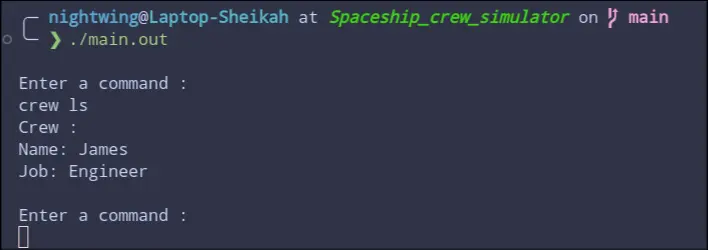
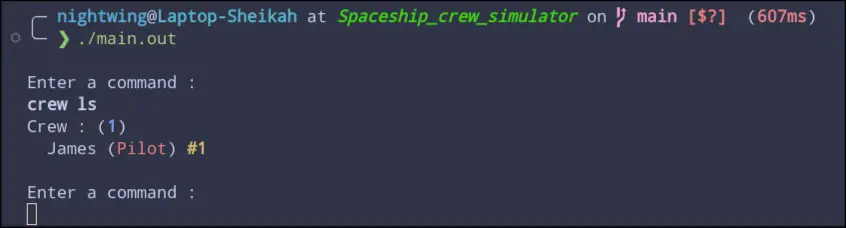
portfolio: updated spaceshipe crew page

Changed region(s): [[0.0, 0.0307, 0.9633, 0.2149], [0.0, 0.307, 0.2486, 0.7368], [0.0, 0.7982, 0.9944, 1.0]]

diff --git a/src/app/features/portfolio/projects/spaceship-crew/spaceship-crew.component.html b/src/app/features/portfolio/projects/spaceship-crew/spaceship-crew.component.html
@@ -41,16 +41,28 @@
     </p>
 
     <p>
-        Il possède actuellement 2 commandes (même s'il se passe beaucoup plus en arrière plan pour initialiser) :
+        Il possède actuellement les commandes suivantes (légèrement inspiré du <a class="pf-link" href="https://fr.wikipedia.org/wiki/Shell_Unix" target="_blank">Shell UNIX</a> pour la syntaxe) :
     </p>
 
     <ul>
         <li><b>crew ls</b> : Liste les membres d'équipage (avec leur nom et leur rôle)</li>
+        <li><b>crew add</b> : Ajoute un membre d'équipage</li>
+        <li><b>crew edit</b> : Met a jout les informations d'un membre d'équipage</li>
+        <li><b>crew rm</b> : Supprime un membre d'équipage</li>
+    </ul>
+    <ul>
         <li><b>room ls</b> : Liste les pièces constituant le vaisseau (avec leur nom, leur type, et leurs pièces adjacentes)</li>
+        <li><b>room add</b> : Ajoute une pièce du vaisseau</li>
+        <li><b>room edit</b> : Met a jout les informations d'une pièce du vaisseau</li>
+        <li><b>room rm</b> : Supprime une pièce du vaisseau</li>
+        <li><b>room link</b> : Rends adjacentes deux pièces du vaisseau</li>
+        <li><b>room unlink</b> : Rends non-adjacentes deux pièces du vaisseau</li>
     </ul>
 
-    <img class="pf-image" ngSrc="assets/images/crew-ls.webp" width="708" height="250" alt="Crew Ls Command" priority>
-    <img class="pf-image" ngSrc="assets/images/room-ls.webp" width="856" height="493" alt="Room Ls Command" priority>
+    <h3>Quelques exemples</h3>
+    <img class="pf-image" ngSrc="assets/images/crew-ls.webp" width="856" height="493" alt="Crew Ls Command" priority>
+    <img class="pf-image" ngSrc="assets/images/room-ls.webp" width="932" height="493" alt="Room Ls Command" priority>
+    <img class="pf-image" ngSrc="assets/images/room-add.webp" width="753" height="399" alt="Room Add Command" priority>
 
 <hr>
 
@@ -62,5 +74,5 @@
 
     <p> 
         Si vous avez lu jusqu'ici et souhaitez voir comment tout ça fonctionne : 
-        <a class="pf-link" href="https://github.com/GreenJacketBoy/Spaceship_Crew_Simulator">https://github.com/GreenJacketBoy/Spaceship_Crew_Simulator</a>
+        <a class="pf-link" href="https://github.com/GreenJacketBoy/Spaceship_Crew_Simulator" target="_blank">https://github.com/GreenJacketBoy/Spaceship_Crew_Simulator</a>
     </p>
